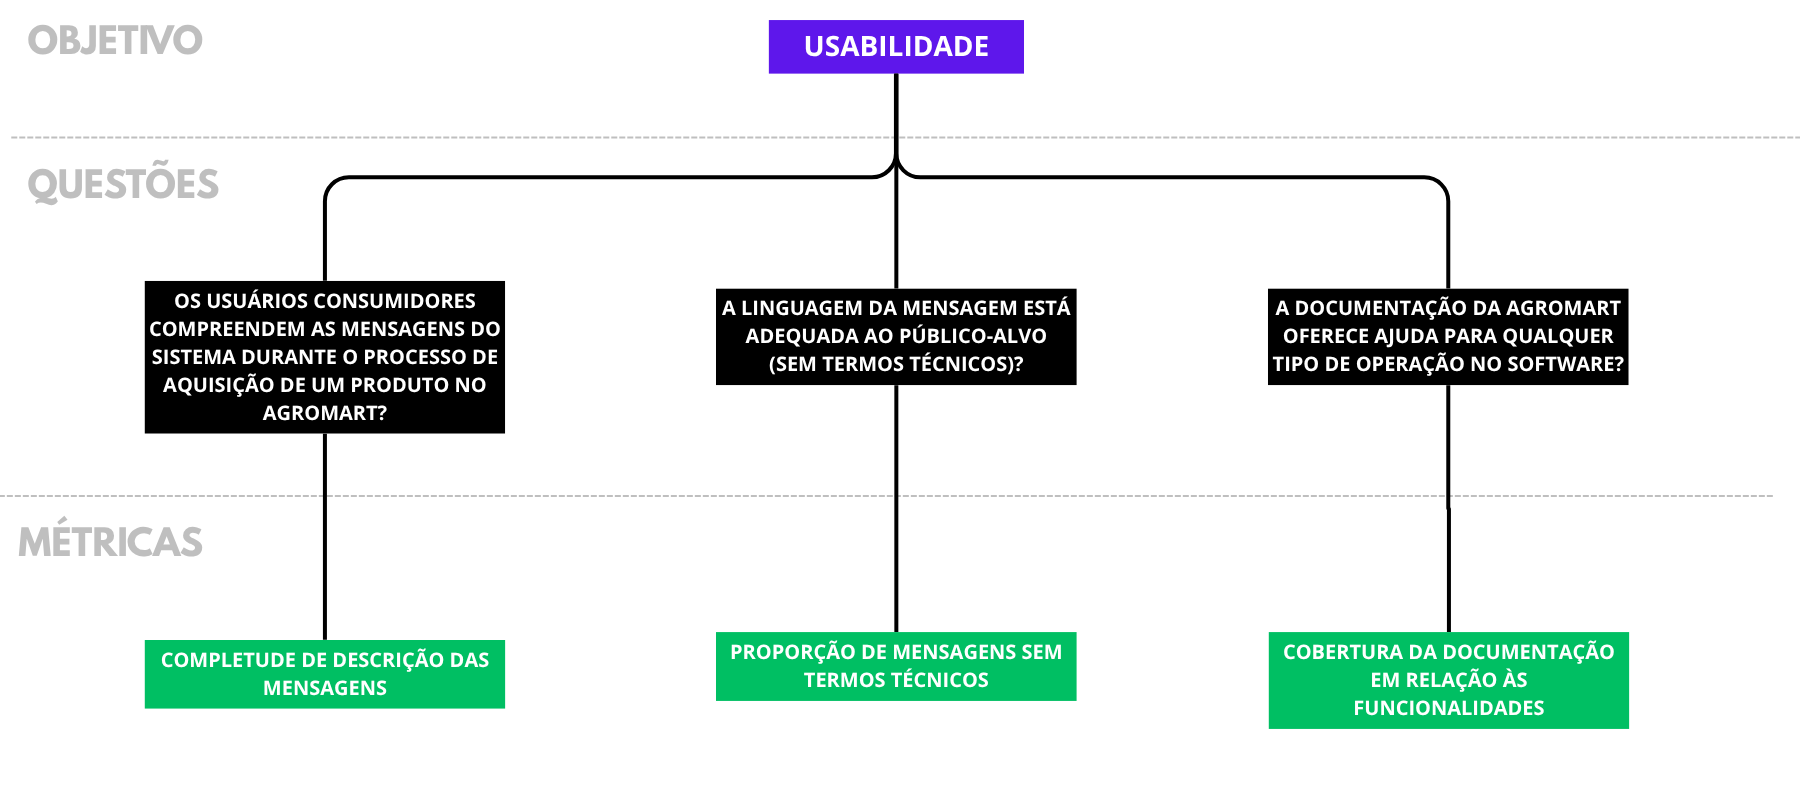
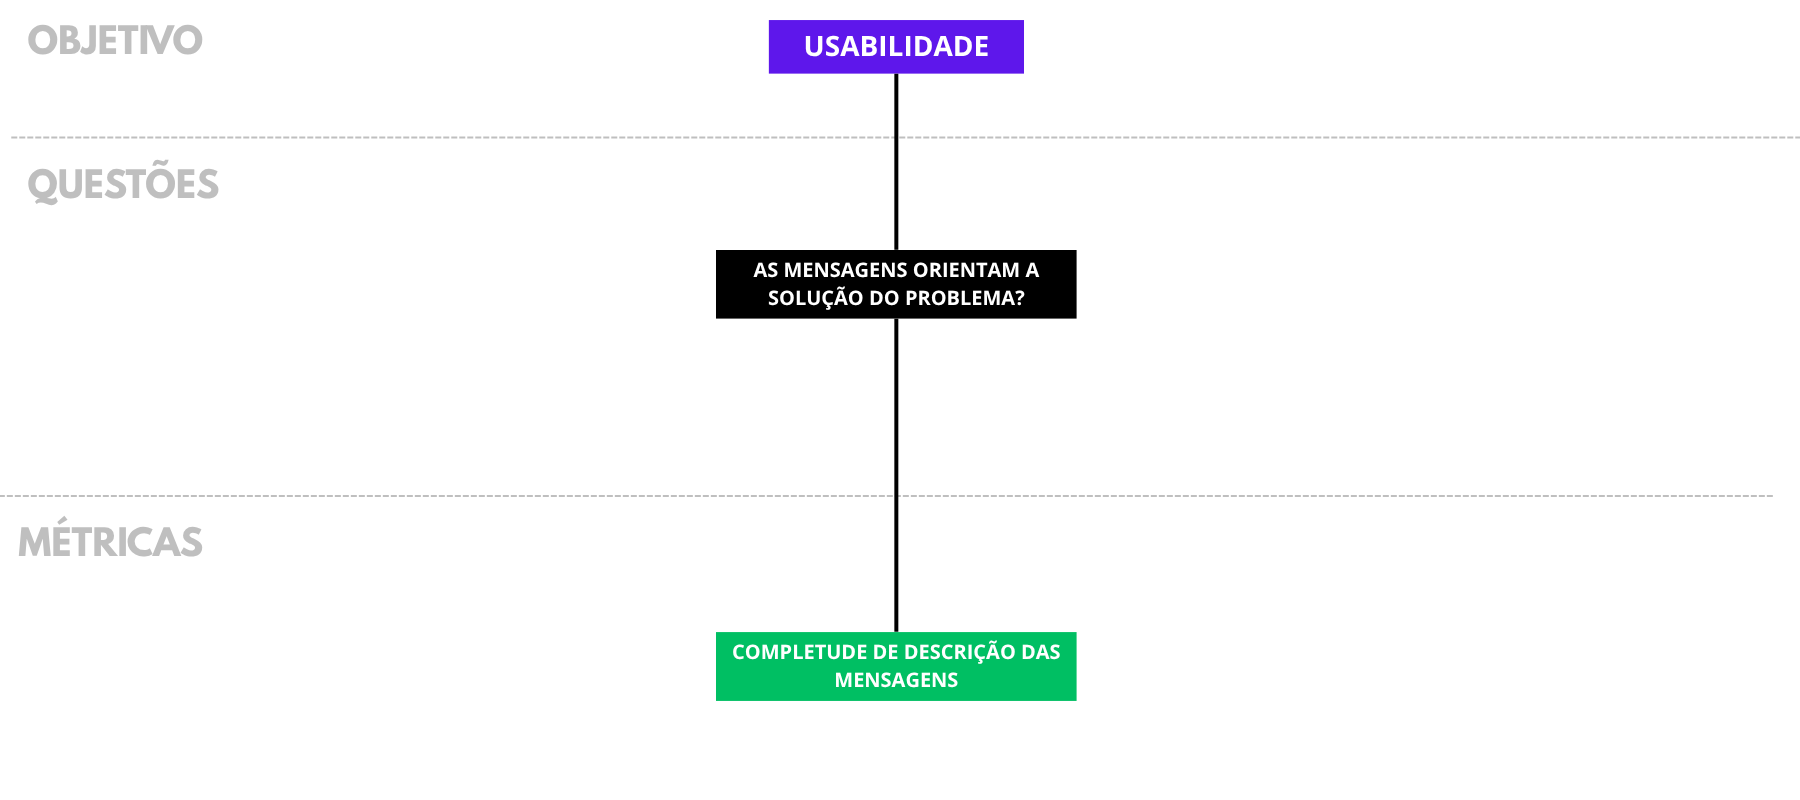
Adicionando texto das perguntas na fase 4  e apagando métricas Q2 e Q3 de Usabilidade

diff --git a/gitpages/docs/pages/06-resultados/usabilidade.md b/gitpages/docs/pages/06-resultados/usabilidade.md
@@ -2,11 +2,11 @@
 
 # Resultados Obtidos | Usabilidade
 
-## Questão 1:
+## Questão 1: As mensagens orientam à solução do problema?
 
 A questão 1 referente ao foco de qualidade “Usabilidade” é referente a completude da descrição das mensagens de erro que um usuário pode receber ao usar as funcionalidades da aplicação, para verificar se as mensagens são significativas e guiam o usuário para uma solução. A métrica usada para medir essa questão consiste na quociente entre o número de funções que descrevem corretamente os erros do software pelo número total de funções.
 
-Rodando a aplicação localmente, a equipe só conseguiu acesso a três funcionalidades que o usuário tem acesso e que retornam mensagens em caso de erro. A primeira é na tela do usuário escolher a CSA que deseja entrar. O usuário só consegue logar caso a CSA seja selecionada.
+Rodando a aplicação localmente, a equipe mostra a seguir duas funcionalidades que o usuário tem acesso e que retornam mensagens em caso de erro. A primeira é na tela do usuário escolher a CSA que deseja entrar. O usuário só consegue logar caso a CSA seja selecionada.
 
 <center>
 <img src="../assets/mobileAgromart.png"/>
@@ -36,7 +36,30 @@ A equipe só conseguiu descobrir os motivos dos erros ao fazer as requisições 
 <spam>Fonte: Autores, 2025</spam>
 </center>
 
-Outra funcionalidade que apresenta mensagem de erro genérica e que não guia o usuário à solução é a da tela de atualização de dados do usuário, que no caso a operação falhar só apresenta o texto “Não foi possível atualizar seus dados”. Com base nas três funcionalidades apresentadas, o valor do quociente entre o número de funções que descrevem corretamente os erros do software pelo número total de funções é ⅓ (aproximadamente 33,33%) sendo 1 a funcionalidade de seleção da CSA. O valor da métrica está bem abaixo do esperado, que era 90%, e embora a equipe só tenha tido acesso a uma pequena amostra de funcionalidades essas funcionalidades são bem importantes para os usuários. 
+Foi feita uma tabela com as mensagens de erro presentes no código e se elas orientam ou não o usuário a solução.
+
+| Localização   | Linha | Orienta o usuário a solução |
+| ------------- | ----- | --------------------------- |
+| src/components/PlanCard/index.tsx | 63 | Não |
+| src/pages/AddressForm/index.tsx | 67 | Não |
+| src/pages/BillingAddress/index.tsx | 52 | Não |
+| src/pages/Cart/index.tsx | 161 | Não |
+| src/pages/CreditCardRegister/index.tsx | 212 | Não |
+| src/pages/History/index.tsx | 83 | Não |
+| src/pages/Home/index.tsx | 93 | Não |
+| src/pages/Notifications/index.tsx | 35 | Não |
+| src/pages/Plan/index.tsx | 73 | Não |
+| src/pages/ProductPage/index.tsx | 76 | Sim |
+| src/pages/ProfileInfo/index.tsx | 33 | Não |
+| src/pages/SelectCSA/index.tsx | 53 | Sim |
+| src/pages/SignIn/index.tsx | 73 | Não |
+| src/pages/SignUp/index.tsx | 51 | Não |
+| src/pages/StoreDetails/index.tsx | 209 |  Sim |
+| src/pages/StoreDetails/index.tsx | 214 | Sim |
+| src/pages/StoreDetails/index.tsx | 276 | Sim |
+
+
+Com base nas funcionalidades apresentadas, o valor do quociente entre o número de funções que descrevem corretamente os erros do software pelo número total de funções é 5/17 (aproximadamente 29,41%). O valor da métrica está bem abaixo do esperado, que era 90%, e embora a equipe só tenha tido acesso a uma pequena amostra de funcionalidades essas funcionalidades são bem importantes para os usuários. 
 Portanto, para melhorar a experiência do usuário, é fundamental substituir mensagens genéricas por mensagens claras e úteis. Uma sugestão da equipe para solucionar esse problema é o front-end da aplicação usar as mensagens retornadas pelas respostas às requisições do back-end sempre que possível, garantindo que o usuário receba informações específicas sobre o que ocorreu. Além disso, é importante que essas mensagens sejam claras e estejam em português, orientando o usuário sobre como resolver o problema ou qual ação tomar a seguir.
 Para resolver esse problema, a equipe desenvolveu uma implementação parcial de código na tela de atualizar dados para demonstrar a ideia sugerida. As alterações no código são mostradas na imagem abaixo.
 
@@ -53,184 +76,10 @@ O resultado é mostrado na foto abaixo, onde a mensagem de erro gerada pela api 
 <center>
 <img src="../assets/resultado1.png"/>
 <br />
-<spam>Figura 5 - Demonstração de Monstrar Mensagens de Erro Informativas para o Usuário</spam>
+<spam>Figura 5 - Demonstração de Mostrar Mensagens de Erro Informativas para o Usuário</spam>
 <br />
 <spam>Fonte: Autores, 2025</spam>
 </center>
-
-
-## Questão 2:
-A questão 2, também relacionada à "Usabilidade" busca quantificar a quantidade de erros que podem trazer confusão aos usuários por trazer termos técnicos, isto é, funções, variáveis ou componentes internos do software. A métrica utilizada para responder esta questão está descrita no tópico [Definição do GQM](../03-gqm/definicao.md), chamada **Clareza de Mensagens**, cujo recebe dois parâmetros:
-
-- A = Número de mensagens que são fáceis de entender;
-- B = Número total de mensagens.
-
-
-E o resultado é obtido por:
-
-_Taxa de Clareza de Mensagens do Aplicativo = A/B_
-
-### Análise:
-#### Ambiente Agromart-web:
-
-No ambiente "Agromart-Web" foram identificados alguns trechos que trazem ao usuário termos internos do sistema sem declarar, após o erro, o que a mensagem significa. Os trechos podem ser observados em:
-
-- _agromart-web/src/hooks/auth.tsx:_
-```typescript
-function useAuth(): AuthContextData {
-  const context = useContext(AuthContext);
-
-  if(!context){
-    throw new Error('useAuth must be used within an AuthProider');
-  }
-
-  return context;
-}
-```
-
-A mensagem de erro presente na linha 95 do Arquivo mencionado não apresenta ao usuário o problema em uma liguagem apropriada, ao invés disso, menciona componentes internos do sistema.
-
-- _agromart-web/src/hooks/notification.tsx:_
-```
-function useNotifications(): NotificationContextData {
-  const context = useContext(NotificationContext);
-
-  if(!context){
-    throw new Error('useNotification must be used within an AuthProider');
-  }
-
-  return context;
-}
-```
-O mesmo problema do arquivo anterior é cometido em `notification.jsx`, apresentando uma mensagem com termos internos ao sistema e sem promover uma liguagem apropriada ao usuário final.
-
-No ambiente do agromart-web, foram registrados:
-
-- B = 10 Mensagens de Erros/Acertos Totais;
-- A = 8 Mensagens de Erros/Acertos que não mencionam termos internos ao software.
-
-#### Ambiente Mobile-Client:
-
-No ambiente "Mobile-Client" também foram identificados alguns trechos que trazem ao usuário termos internos do sistema sem declarar, após o erro, o que a mensagem significa. Os trechos podem ser observados em:
-
-- _mobile-client/src/pages/AdressForm/index.tsx_
-```typescript
-  const SCHEMA = Yup.object().shape({
-    cep: Yup.string().required(),
-    city: Yup.string().required(),
-    neighborhood: Yup.string().required(),
-    street: Yup.string().required(),
-    number: Yup.string().required(),
-    complement: Yup.string(),
-  });
-```
-
-O método `Yup` emite ao usuário uma mensagem em sua interface indicando que os campos `cep`, `city`, `neighborhood`, `street`, `number` e `complement` são obrigatórios em caso da ausência destes dados. Contúdo, o desenvolvedor não indicou qual será a mensagem à ser exibida ao usuário. Essa omissão permite que o software exiba, por padrão, mensagens vindos do próprio sistema.
-
-- _mobile-client/src/hooks/AuthProvider.tsx_
-```typescript
-function useAuth(): AuthContextData {
-  const context = useContext(AuthContext);
-
-  if (!context) {
-    throw new Error('useAuth must be used within an AuthProvider');
-  }
-
-  return context;
-}
-```
-
-Aqui, o mesmo erro problema obtido no ambiente agromart-web é cometido. O erro na linha 215 no arquivo mencionado exibe na interface do usuário a mensagem _"useAuth must be used within an AuthProvider"_, cujo não utiliza de uma liguagem adequada e faz referências à componentes internos do sistema.
-
-- _mobile-client/src/hooks/CartProvider.jsx_
-```typescript
-function useCart(): CartContextData {
-  const context = useContext(CartContext);
-
-  if (!context) {
-    throw new Error('useCart must be used within an CartProvider');
-  }
-
-  return context;
-}
-```
-
-O mesmo erro detalhado anteriormente é feito neste arquivo, na linha 101. A mensagem que é exibida na interface do usuário _"useCart must be used within an CartProvider"_ faz referência à componentes internos do software.
-
-- _mobile-client/src/hooks/StoresProvider.jsx_
-```typescript
-function useStores(): StoresContextData {
-  const context = useContext(StoresContext);
-
-  if (!context) {
-    throw new Error('useStores must be used within an StoresProvider');
-  }
-
-  return context;
-}
-```
-
-Mais uma vez, a linha 42 do arquivo exibe a mensagem _"useStores must be used within an StoresProvider"_ em sua interface em caso de erro, cujo utiliza de termos internos do software.
-
-No ambiente Mobile-Client, foram registrados:
-
-- B = 28 Mensagens de Erros/Acertos Totais;
-- A = 19 Mensagens de Erros/Acertos que não mencionam termos internos ao software. 
-
-### Resultado:
-
-Os resultados obtidos individualmente por ambiente foram:
-
-| Amiente       | Total de Mensagens (B) | Mensagens claras (A) | Taxa de Clareza das Mensagens |
-| ------------- | ---------------------- | -------------------- | ----------------------------- |
-| agromart-web  | 10                     | 8                    | 80%                           |
-| mobile-client | 28                     | 19                   | 67%                           |
-
-Os resultados gerais, portanto podem ser vistas abaixo:
-
-- A = 38 Mensagens Totais;
-- B = 27 Mensagens Claras.
-- **Taxa de Clareza das Mensagens:** 71%
-
-O resultado indica, portanto, valores **abaixo** da hipótese esperada para esta questão, cujo foram indicadas na seção [Definição do GQM](../03-gqm/definicao.md).
-
-## Questão 3:
-
-A questão analisada está relacionada à métrica de Usabilidade, com foco na clareza das mensagens exibidas pelo sistema. O objetivo desta métrica é avaliar se as mensagens apresentadas ao usuário são de fácil entendimento, auxiliando-o na compreensão do problema ocorrido e, quando possível, indicando como solucioná-lo.
-
-Durante os testes no ambiente da aplicação, foram identificadas três mensagens principais que aparecem em situações de erro nas funcionalidades acessadas. São elas:
-
-**"Ops, Não foi possível carregar as lojas"**: Esta mensagem não especifica o motivo da falha (por exemplo: problema de rede, falha no servidor, ou dados inconsistentes). Assim, o usuário não sabe se deve tentar novamente, verificar sua conexão ou entrar em contato com o suporte.
-
-<center>
-<img src="../assets/mensagem_lojas.jpeg" width="350"/>
-<br />
-<spam>Figura 6 - Mensagem de erro de não carregamento das lojas</spam>
-<br />
-<spam>Fonte: Autores, 2025</spam>
-</center>
-
-**"Erro ao cadastrar usuário”**: Também trata-se de uma mensagem genérica, sem explicar se o erro ocorreu por causa de falha de validação (ex: senha fraca, e-mail inválido), usuário já existente ou outro fator.
-
-<center>
-<img src="../assets/mensagem_usuario.jpeg" width="350"/>
-<br />
-<spam>Figura 7 - Mensagem de erro no cadastro de usuário</spam>
-<br />
-<spam>Fonte: Autores, 2025</spam>
-</center>
-
-**"Ops :( Não foi possível atualizar seus dados"**: Novamente, a mensagem não orienta o usuário sobre o que causou a falha, nem sugere um próximo passo.
-
-<center>
-<img src="../assets/mensagem_dados.jpeg" width="350"/>
-<br />
-<spam>Figura 8 - Mensagem de erro de atualização dos dados</spam>
-<br />
-<spam>Fonte: Autores, 2025</spam>
-</center>
-
-
 
 ## Conclusão:
 
@@ -243,3 +92,4 @@ Fica evidente, portanto, que durante a execução dos testes realizados, princip
 | **Versão** | **Data**   | **Descrição**                    | **Autor**                                         |
 | ---------- | ---------- | -------------------------------- | ------------------------------------------------- |
 | `1.0`      | 05/07/2025 | Criação e estruturação da página | [Daniel Rodrigues](https://github.com/DanielRogs) |
+| `1.1`      | 07/07/2025   | Adicionando texto das perguntas e apagando métricas Q2 e Q3 de Usabilidade | [Victório Lázaro](https://github.com/Victor-oss) |

diff --git a/gitpages/docs/pages/06-resultados/eficiencia.md b/gitpages/docs/pages/06-resultados/eficiencia.md
@@ -2,7 +2,7 @@
 
 # Resultados Obtidos | Eficiência
 
-## Questão 1: 
+## Questão 1: O tempo de resposta do sistema é adequado para operações de edição e exclusão?
 
 Para a questão 1, que aborda a eficiência, avaliamos a velocidade de resposta do sistema às operações de criação pelo usuário, medida em milissegundos. Especificamente, o endpoint de criação de CSA foi o escolhida para essa análise, apresentando uma latência de 5658,968 ms.
 
@@ -19,7 +19,7 @@ A latência registrada para o endpoint de criação de CSA é, sem dúvida, uma 
 
 Dessa forma, podemos concluir que a hipótese de baseline "Existem requisições que tiveram um tempo de resposta superior a 4000ms?" se confirma, tornando-se necessário incluir otimizações no banco de dados, como criação de índices ou reestruturação de queries e melhorias no código da aplicação para reduzir complexidade ou chamadas desnecessárias.
 
-## Questão 2:
+## Questão 2: O sistema realiza consultas ao banco de dados de forma eficiente?
 
 A questão 2 aborda otimização das consultas ao banco de dados, que não só é crucial para o consumo adequado de recursos computacionais e financeiros, mas também para a satisfação do usuário. 
 
@@ -56,7 +56,7 @@ Já os de índices do api-dicionario tem apenas dois índices, e apenas um deles
 Dessa forma, apesar de ainda possibilitar algumas melhorias, podemos concluir que a hipótese "95% de todas as consultas disponíveis são retornadas em até 5000ms" é correta, atestando uma eficiência mínima que permite que o usuário realize ações no sistema sem maiores empecilhos.
 
 
-## Questão 3:
+## Questão 3: O sistema de cadastro é eficiente na gestão de recursos de memória?
 
 A questão 3 está relacionada à variação percentual do uso da memória RAM durante a operação de cadastro pelo usuário. Usando como base uma máquina equipada com 1 GB de memória, permitindo uma análise que abrange tanto cenários de memória limitada quanto de alta disponibilidade, tornando os resultados mais representativos. Já os dados foram obtidos através do uso da endpoint de cadastro de CSA, onde constatamos o uso líquido de memória e consequentemente sua variação percentual. 
 
@@ -80,3 +80,4 @@ Quanto a hipótese relacionada a esse métrica específica, que diz: O uso médi
 | ---------- | ---------- | -------------------------------- | ------------------------------------------------- |
 | `1.0`      | 05/07/2025 | Criação e estruturação da página | [Daniel Rodrigues](https://github.com/DanielRogs) |
 | `1.1`      | 07/07/2025 | Análise das métricas de eficiência e escrita do texto | [Pedro Izarias](https://github.com/Izarias), [Pedro Sena](https://github.com/pedrosena21) |
+| `1.2`      | 07/07/2025   | Adicionando texto das perguntas    | [Victório Lázaro](https://github.com/Victor-oss) |

diff --git a/gitpages/docs/pages/03-gqm/abstraction.md b/gitpages/docs/pages/03-gqm/abstraction.md
@@ -68,23 +68,6 @@
         - B = Número Total de Funções
     - **Foco da Medição:** Externo/Interno
 
-2. **Completude da Documentação do Usuário e Facilidade de Uso**
-    - **Descrição:**
-        - Pertence à métrica de Usabilidade e seu objetivo é determinar quantas funcionalidades a documentação ensina ao usuário em como utilizar.
-    - **Elementos de Medição da Qualidade:**
-        - A = Número de Funcionalidades descritas na documentação;
-        - B = Número de Funcionalidades totais.
-    - **Foco da Qualidade:** Externo/Interno.
-
-3. **Clareza de Mensagens**
-    - **Descrição:**
-        - Pertence à métrica de Usabilidade, e seu objetivo é descrever quantas mensagens do sistema são de fácil entendimento.
-    - **Elementos de Medição da Qualidade:**
-        - A = Número de mensagens que são fáceis de entender;
-        - B = Número total de mensagens.
-    - **Foco da Qualidade:**
-        - Externo/Interno.
-
 ## Abstraction sheet do Objetivo de Medição 2
 
 <table>
@@ -177,3 +160,4 @@
 | **Versão** | **Data**     | **Descrição**                     | **Autor**                                         |
 |------------|--------------|-----------------------------------|---------------------------------------------------|
 | `1.0`      | 03/06/2025   | Reorganização dos Conteúdo GQM    | [Daniel Rodrigues](https://github.com/DanielRogs) |
+| `1.1`      | 07/07/2025   | Apagando métricas Q2 e Q3 de Usabilidade    | [Victório Lázaro](https://github.com/Victor-oss) |

diff --git a/gitpages/docs/pages/03-gqm/definicao.md b/gitpages/docs/pages/03-gqm/definicao.md
@@ -13,17 +13,9 @@
 
 ### Questões e Hipóteses para alcançar o objetivo 1:
 
-**Q1.** Os usuários consumidores compreendem as mensagens do sistema durante o processo de aquisição de um produto no AgroMart?
+**Q1.** As mensagens orientam à solução do problema?
 
 - **Hipótese da Q1.** 90% das mensagens de erro possíveis descrevem de forma coerente o real motivo do erro, no mínimo.
-
-**Q2.** A linguagem da mensagem está adequada ao público-alvo (sem termos técnicos)?
-
-- **Hipótese da Q2.** Pelo menos 90% das mensagens de erro não mencionam termos relacionados ao funcionamento interno do sistema.
-
-**Q3.** A documentação da AgroMart oferece ajuda para qualquer tipo de operação no software?
-
-- **Hipótese da Q3.** Pelo menos 90% das funcionalidades da AgroMart estão na documentação, tendo a descrição de como utilizá-lo.
 
 <br/><br/>
 
@@ -75,4 +67,4 @@
 |------------|--------------|-----------------------------------|---------------------------------------------------|
 | `1.0`      | 02/06/2025   | Criação e estruturação da página  | [Luan Mateus](https://github.com/luanduartee)     |
 | `1.1`      | 03/06/2025   | Reorganização dos Conteúdo GQM    | [Daniel Rodrigues](https://github.com/DanielRogs) |
-
+| `1.2`      | 07/07/2025   | Apagando métricas Q2 e Q3 de Usabilidade e arrumando texto da Q1    | [Victório Lázaro](https://github.com/Victor-oss) |

diff --git a/gitpages/docs/pages/05-qrapids/qrapids.md b/gitpages/docs/pages/05-qrapids/qrapids.md
@@ -14,7 +14,7 @@ O Q-Rapids (Quality-Aware Rapid Software Development) é um framework voltado pa
 
 ## Plano para Obter as Métricas do Objetivo de Usabilidade usando Q-Rapids
 
-A usabilidade se refere a facilidade com que usuários podem usar um sistema ou aplicativo de software. A usabilidade também é um dos objetivos de medição desse trabalho. Portanto, depois do estudo sobre Q-Rapids e discussão interna, o grupo decidiu não alterar as questões e as métricas relacionadas a usabilidade declaradas no [Detalhamento do GQM](../03-gqm/abstraction.md#abstraction-sheet-do-objetivo-de-medição-1) porque vamos usar o backlog (um dos tipos de fontes usada pelo Q-Rapids) para fazer a medição da questão 1 de usabilidade.
+A usabilidade se refere a facilidade com que usuários podem usar um sistema ou aplicativo de software. A usabilidade também é um dos objetivos de medição desse trabalho. Portanto, depois do estudo sobre Q-Rapids e discussão interna, o grupo decidiu não alterar as questões e as métricas relacionadas a usabilidade declaradas no [Detalhamento do GQM](../03-gqm/abstraction.md#abstraction-sheet-do-objetivo-de-medição-1) porque vamos usar o código (um dos tipos de fontes usada pelo Q-Rapids) para fazer a medição da questão 1 de usabilidade.
 
 ## Plano para Obter as Métricas do Objetivo de Eficiência usando Q-Rapids
 
